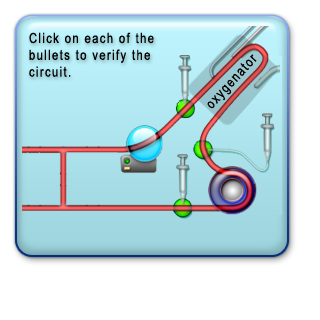
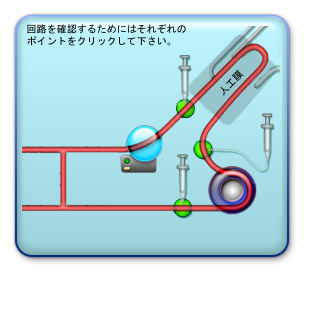
lt: ja[i18n] Detail panels for tube & pressure monitor translated to Japanese
git-svn-id: https://ecmojo.svn.sourceforge.net/svnroot/ecmojo@578 6adee215-725e-4b28-87c1-af44a2b16021

Changed region(s): [[0.0625, 0.0625, 0.5938, 0.25], [0.625, 0.1562, 0.8125, 0.3438]]

diff --git a/trunk/app/src/app/edu/hawaii/jabsom/tri/ecmo/app/view/comp/PressureMonitorDetailPanel.java b/trunk/app/src/app/edu/hawaii/jabsom/tri/ecmo/app/view/comp/PressureMonitorDetailPanel.java
@@ -11,6 +11,7 @@ import java.awt.event.ActionListener;
 
 import king.lib.access.ImageLoader;
 import king.lib.out.Error;
+import king.lib.util.Translator;
 
 import edu.hawaii.jabsom.tri.ecmo.app.control.action.KillAction;
 import edu.hawaii.jabsom.tri.ecmo.app.control.action.PressureMonitorAction;
@@ -30,7 +31,9 @@ public class PressureMonitorDetailPanel extends DetailPanel implements Runnable 
 
   /** The detail image. */
   private Image detailImage 
-    = ImageLoader.getInstance().getImage("conf/image/interface/game/Detail-PressureMonitor.png");
+    = ImageLoader.getInstance().getImage(
+        Translator.getString(
+          "image.DetailPressureMonitor[i18n]: conf/image/interface/game/Detail-PressureMonitor.png"));
 
   /** The red alert image. */
   private Image redAlertImage = ImageLoader.getInstance().getImage("conf/image/interface/game/Alrt-RedMedium.png");

diff --git a/trunk/app/src/app/edu/hawaii/jabsom/tri/ecmo/app/view/comp/TubeDetailPanel.java b/trunk/app/src/app/edu/hawaii/jabsom/tri/ecmo/app/view/comp/TubeDetailPanel.java
@@ -12,6 +12,7 @@ import java.awt.event.ActionListener;
 import javax.swing.JLabel;
 
 import king.lib.access.ImageLoader;
+import king.lib.util.Translator;
 
 import edu.hawaii.jabsom.tri.ecmo.app.control.action.CircuitChangeAction;
 import edu.hawaii.jabsom.tri.ecmo.app.gui.ImageButton;
@@ -30,7 +31,8 @@ import edu.hawaii.jabsom.tri.ecmo.app.view.dialog.StandardDialog.DialogType;
 public class TubeDetailPanel extends DetailPanel implements Runnable {
 
   /** The detail image. */
-  private Image detailImage = ImageLoader.getInstance().getImage("conf/image/interface/game/Detail-Tube.png");
+  private Image detailImage = ImageLoader.getInstance().getImage(
+      Translator.getString("image.DetailTube[i18n]: conf/image/interface/game/Detail-Tube.png"));
   
   /** The info label. */
   private JLabel infoLabel;
